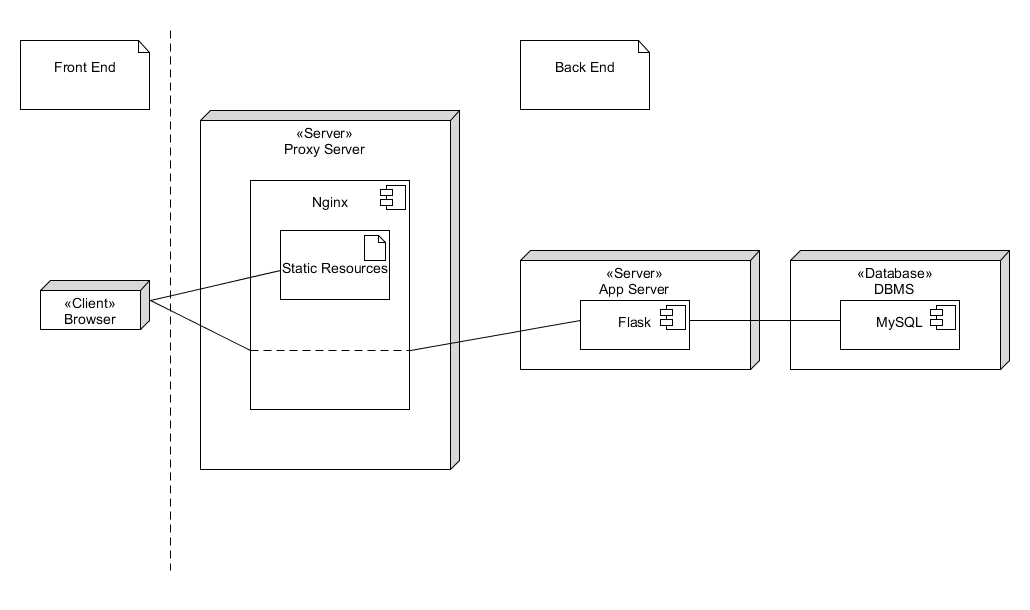
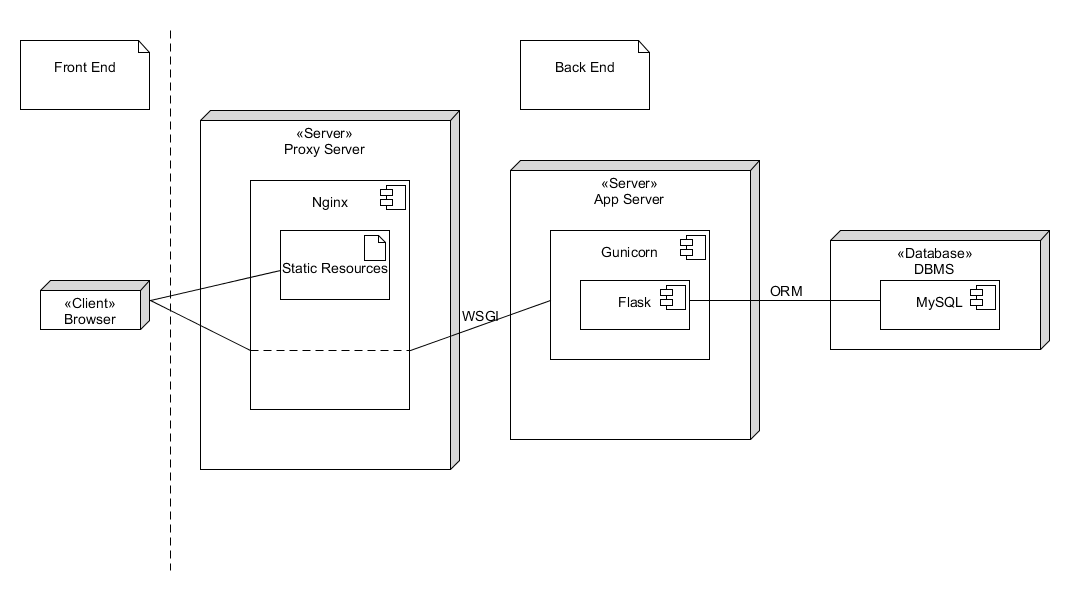
update architecture

diff --git a/README.md b/README.md
@@ -3,10 +3,11 @@
 
 ## 后台架构
 ![](https://raw.githubusercontent.com/TheYelda/AppServer/master/doc/architecture.png)
-项目后台采用的技术栈为Nginx+Flask+MySQL。
-- Nginx：高性能的Web服务器，向前端提供静态文件服务，同时针对Flask提供的RESTful API服务实现反向代理。
-- Flask：轻量级Web应用框架，通过ORM（Object Relational Mapping，对象关系映射）技术更方便地操作MySQL。
-- MySQL：最流行的关系型数据库管理系统，直接面向数据进行管理。
+项目后台采用的技术栈为Nginx+Gunicorn+Flask+MySQL。
+- Nginx：Web服务器，向前端提供静态文件服务，同时针对Flask提供的RESTful API服务实现反向代理。
+- Gunicorn：Python的WSGI容器，作为Web服务器和Web应用框架的中间层将两者串联起来。
+- Flask：Web应用框架，通过WGSI容器Gunicorn与Nginx交互，通过ORM操作MySQL。
+- MySQL：关系型数据库管理系统，直接面向数据进行管理。
 
 ## 代码目录结构
 TODO
